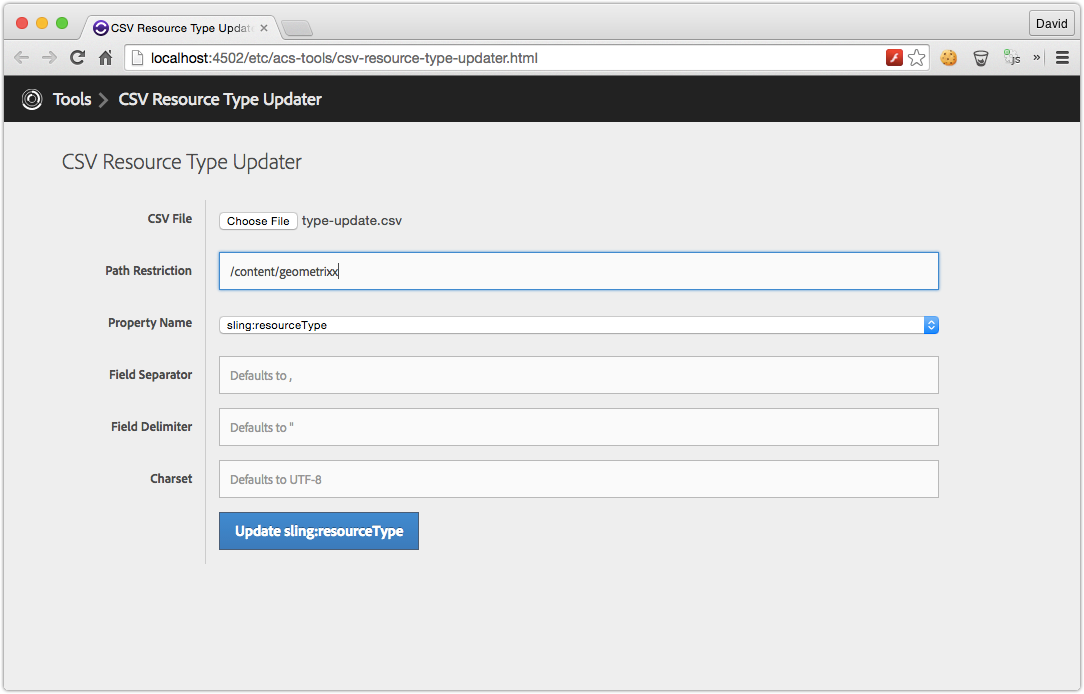
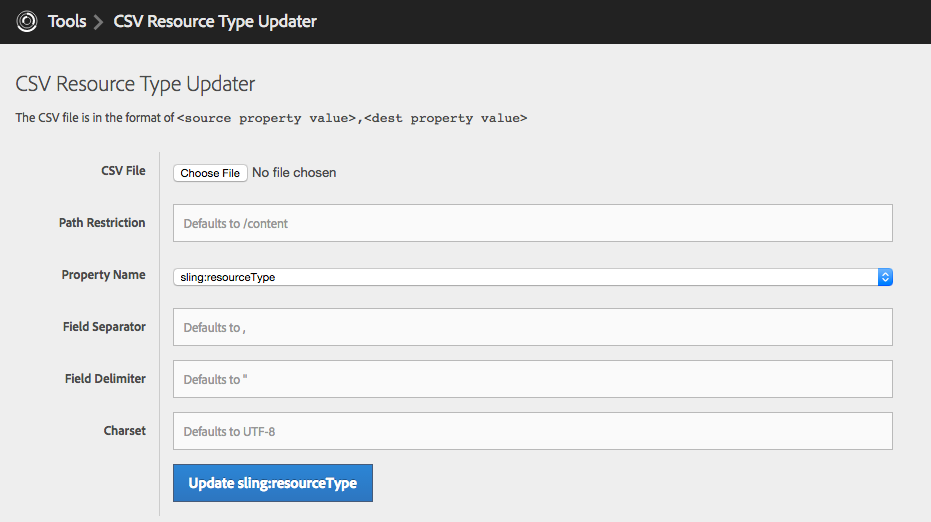
CSV Resource Type Updater

diff --git a/_posts/acs-aem-tools/features/2015-10-20-csv-resource-type-updater.md b/_posts/acs-aem-tools/features/2015-10-20-csv-resource-type-updater.md
@@ -1,0 +1,43 @@
+---
+layout: acs-aem-tools_feature
+title: CSV Resource Type Updater
+description: Changing sling:resourceType and cq:template has never been simpler!
+date: 2015-10-20
+thumbnail: /images/csv-resource-type-updater/thumbnail.png
+categories: acs-aem-tools
+tags: acs-aem-tools-features new
+initial-release: 0.0.24
+---
+
+## Getting Started
+
+Install the ACS AEM Tools package via the AEM Package Manager and then open CSV Resource Type Updater from the AEM Tools console, or directly at [/etc/acs-tools/csv-resource-type-updater.html](http://localhost:4502/etc/acs-tools/csv-resource-type-updater.html)
+
+To get to the AEM Tools console from the Touch UI, from the left rail navigation, select Tools > ACS AEM Tools > CSV Resource Type Updater.
+
+## Overview
+
+CSV Resource Type Updater is a tool that bulk updates `sling:resourceType` or `cq:template` properties based on CSV map file.
+
+## Important Considerations
+
+On Oak based AEM instances, ensure that there are Oak Indexes for `sling:resourceType` and `cq:template` before running. These should be installed with AEM 6.0+.
+
+## How to Use
+
+Create the a CSV that contains the current value in the first column and the target value in the second column.
+
+> Note: When updating both sling:resourceType and cq:template two CSV files are required; one CSV for sling:resourceType and another for cq:template.
+
+![CSV Resource Type Updater - CSV](/acs-aem-tools/images/csv-resource-type-updater/csv.png)
+
+Upload the CSV file, define the content tree to consider and select the property to update (`sling:resourceType` or `cq:template`). The other options can be left as default (unless you know you need to change them and why).
+
+
+![CSV Resource Type Updater UI](/acs-aem-tools/images/csv-resource-type-updater/web-ui.png)
+
+Press the Update button and be patient.
+
+A list of paths that were successfully updated will display. If any failures occur, these will be listed as well.
+
+Normally failures occur because the resource is LOCKED.
